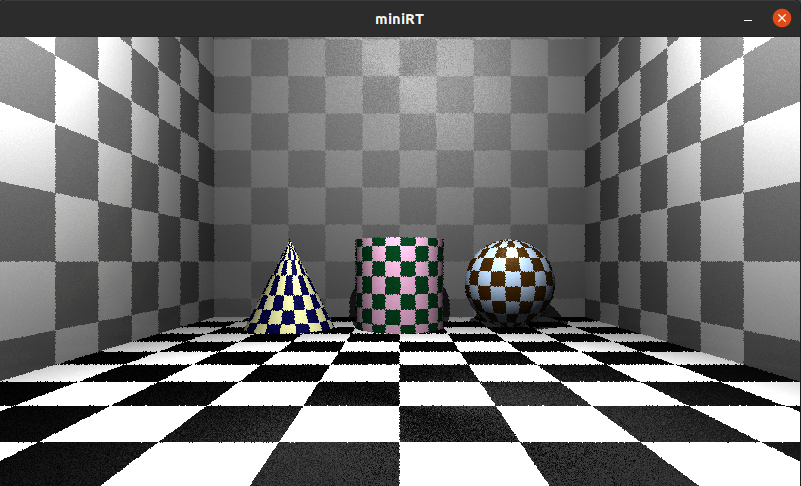
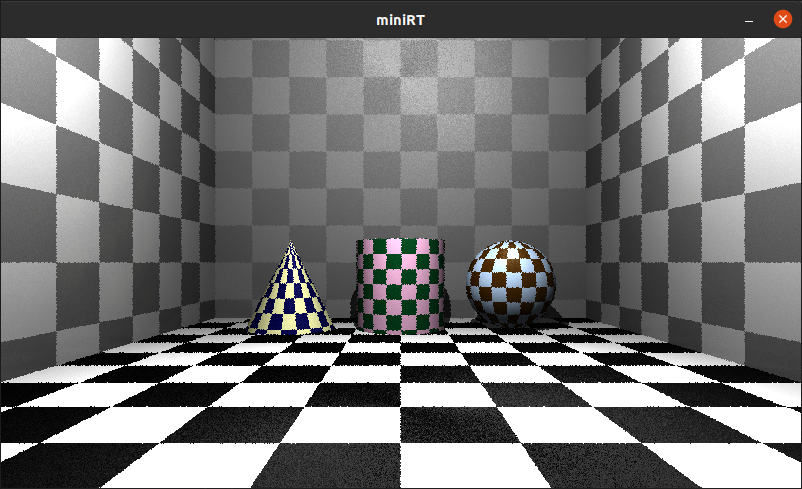
20221211_01:18

diff --git a/miniRT/srcs_bonus/raytracing_bonus/raytracing_cylinder_checkerboard_1_bonus.c b/miniRT/srcs_bonus/raytracing_bonus/raytracing_cylinder_checkerboard_1_bonus.c
@@ -6,7 +6,7 @@
 /*   By: yhwang <yhwang@student.42.fr>              +#+  +:+       +#+        */
 /*                                                +#+#+#+#+#+   +#+           */
 /*   Created: 2022/12/07 22:57:21 by yhwang            #+#    #+#             */
-/*   Updated: 2022/12/10 22:44:02 by yhwang           ###   ########.fr       */
+/*   Updated: 2022/12/11 01:17:09 by yhwang           ###   ########.fr       */
 /*                                                                            */
 /* ************************************************************************** */
 
@@ -14,16 +14,16 @@
 
 void	cylinder_checkerboard_xy(t_data *data, t_hit *hit, int cy_i)
 {
-	t_vec3	pc;
-	double	pc_length;
+	t_vec3	cp;
+	double	length_cp;
 	double	theta;
 	double	height;
 
-	pc = vec3_sub_vec3(data->obj[cy_i]->xyz_pos, hit->hit_point);
-	pc_length = sqrt(pc.x * pc.x + pc.y * pc.y + pc.z * pc.z);
 	theta = atan2(hit->normal_vec.y, hit->normal_vec.x) + PI / 2;
-	height = 10 + (sqrt(pc_length * pc_length - (data->obj[cy_i]->diameter / 2)
-				* ((data->obj[cy_i]->diameter) / 2)));
+	cp = vec3_sub_vec3(hit->hit_point, data->obj[cy_i]->xyz_pos);
+	length_cp = vec3_dot_vec3(cp, data->obj[cy_i]->xyz_vec);
+	height = PI + (length_cp / data->obj[cy_i]->height) * 2
+		* (data->obj[cy_i]->height / (data->obj[cy_i]->diameter));
 	if (!(hit->normal_vec.x == data->obj[cy_i]->xyz_vec.x
 			&& hit->normal_vec.y == data->obj[cy_i]->xyz_vec.y
 			&& hit->normal_vec.z == data->obj[cy_i]->xyz_vec.z)
@@ -42,16 +42,16 @@ void	cylinder_checkerboard_xy(t_data *data, t_hit *hit, int cy_i)
 
 void	cylinder_checkerboard_zx(t_data *data, t_hit *hit, int cy_i)
 {
-	t_vec3	pc;
-	double	pc_length;
+	t_vec3	cp;
+	double	length_cp;
 	double	theta;
 	double	height;
 
-	pc = vec3_sub_vec3(data->obj[cy_i]->xyz_pos, hit->hit_point);
-	pc_length = sqrt(pc.x * pc.x + pc.y * pc.y + pc.z * pc.z);
 	theta = atan2(hit->normal_vec.x, hit->normal_vec.z) + PI / 2;
-	height = 10 + (sqrt(pc_length * pc_length - (data->obj[cy_i]->diameter / 2)
-				* ((data->obj[cy_i]->diameter) / 2)));
+	cp = vec3_sub_vec3(hit->hit_point, data->obj[cy_i]->xyz_pos);
+	length_cp = vec3_dot_vec3(cp, data->obj[cy_i]->xyz_vec);
+	height = PI + (length_cp / data->obj[cy_i]->height) * 2
+		* (data->obj[cy_i]->height / (data->obj[cy_i]->diameter));
 	if (!(hit->normal_vec.x == data->obj[cy_i]->xyz_vec.x
 			&& hit->normal_vec.y == data->obj[cy_i]->xyz_vec.y
 			&& hit->normal_vec.z == data->obj[cy_i]->xyz_vec.z)
@@ -70,16 +70,16 @@ void	cylinder_checkerboard_zx(t_data *data, t_hit *hit, int cy_i)
 
 void	cylinder_checkerboard_zy(t_data *data, t_hit *hit, int cy_i)
 {
-	t_vec3	pc;
-	double	pc_length;
+	t_vec3	cp;
+	double	length_cp;
 	double	theta;
 	double	height;
 
-	pc = vec3_sub_vec3(data->obj[cy_i]->xyz_pos, hit->hit_point);
-	pc_length = sqrt(pc.x * pc.x + pc.y * pc.y + pc.z * pc.z);
 	theta = atan2(hit->normal_vec.y, hit->normal_vec.z) + PI / 2;
-	height = 10 + (sqrt(pc_length * pc_length - (data->obj[cy_i]->diameter / 2)
-				* ((data->obj[cy_i]->diameter) / 2)));
+	cp = vec3_sub_vec3(hit->hit_point, data->obj[cy_i]->xyz_pos);
+	length_cp = vec3_dot_vec3(cp, data->obj[cy_i]->xyz_vec);
+	height = PI + (length_cp / data->obj[cy_i]->height) * 2
+		* (data->obj[cy_i]->height / (data->obj[cy_i]->diameter));
 	if (!(hit->normal_vec.x == data->obj[cy_i]->xyz_vec.x
 			&& hit->normal_vec.y == data->obj[cy_i]->xyz_vec.y
 			&& hit->normal_vec.z == data->obj[cy_i]->xyz_vec.z)

diff --git a/miniRT/srcs_bonus/raytracing_bonus/raytracing_cone_checkerboard_2_bonus.c b/miniRT/srcs_bonus/raytracing_bonus/raytracing_cone_checkerboard_2_bonus.c
@@ -6,17 +6,20 @@
 /*   By: yhwang <yhwang@student.42.fr>              +#+  +:+       +#+        */
 /*                                                +#+#+#+#+#+   +#+           */
 /*   Created: 2022/12/10 22:12:53 by yhwang            #+#    #+#             */
-/*   Updated: 2022/12/10 22:59:14 by yhwang           ###   ########.fr       */
+/*   Updated: 2022/12/11 01:16:46 by yhwang           ###   ########.fr       */
 /*                                                                            */
 /* ************************************************************************** */
 
 #include "../incs_bonus/miniRT_bonus.h"
 
-void	cone_find_k(t_data *data, t_hit *hit, int co_i, double *k)
+void	cone_checkerboard_xy_zx_zy_norminette(t_data *data,
+				t_hit *hit, int co_i, double *height)
 {
 	double	delta;
 	t_vec3	top_center;
-	double	tan_theta;
+	double	cos_theta;
+	t_vec3	pq;
+	double	length_pq;
 
 	delta = data->obj[co_i]->height / 2
 		* sqrt(1 / (data->obj[co_i]->xyz_vec.x * data->obj[co_i]->xyz_vec.x
@@ -26,29 +29,14 @@ void	cone_find_k(t_data *data, t_hit *hit, int co_i, double *k)
 		= vec3(data->obj[co_i]->xyz_pos.x + delta * data->obj[co_i]->xyz_vec.x,
 			data->obj[co_i]->xyz_pos.y + delta * data->obj[co_i]->xyz_vec.y,
 			data->obj[co_i]->xyz_pos.z + delta * data->obj[co_i]->xyz_vec.z);
-	tan_theta = (data->obj[co_i]->diameter / 2) / data->obj[co_i]->height;
-	*k = sqrt((hit->hit_point.x - top_center.x)
-			* (hit->hit_point.x - top_center.x)
-			+ (hit->hit_point.y - top_center.y)
-			* (hit->hit_point.y - top_center.y)
-			+ (hit->hit_point.z - top_center.z)
-			* (hit->hit_point.z - top_center.z))
-		* tan_theta;
-}
-
-void	cone_checkerboard_xy_zx_zy_norminette(t_data *data,
-				t_hit *hit, int co_i, double *height)
-{
-	t_vec3	pc;
-	double	pc_length;
-	double	k;
-
-	cone_find_k(data, hit, co_i, &k);
-	pc = vec3_sub_vec3(data->obj[co_i]->xyz_pos, hit->hit_point);
-	pc_length = sqrt(pc.x * pc.x + pc.y * pc.y + pc.z * pc.z);
-	*height = 1.5 + sqrt(pc_length * pc_length + k * k);
-	if (data->obj[co_i]->diameter >= data->obj[co_i]->height)
-		*height = sqrt(pc_length * pc_length + k * k);
+	cos_theta = data->obj[co_i]->height
+		/ sqrt(data->obj[co_i]->height * data->obj[co_i]->height
+			+ (data->obj[co_i]->diameter / 2)
+			* (data->obj[co_i]->diameter / 2));
+	pq = vec3_sub_vec3(hit->hit_point, top_center);
+	length_pq = sqrt(pq.x * pq.x + pq.y * pq.y + pq.z * pq.z);
+	*height = (length_pq * cos_theta / data->obj[co_i]->height) * 2
+		* (data->obj[co_i]->height / (data->obj[co_i]->diameter));
 }
 
 void	cone_checkerboard_xy(t_data *data, t_hit *hit, int co_i)

diff --git a/miniRT/incs_bonus/miniRT_raytracing_bonus.h b/miniRT/incs_bonus/miniRT_raytracing_bonus.h
@@ -6,7 +6,7 @@
 /*   By: yhwang <yhwang@student.42.fr>              +#+  +:+       +#+        */
 /*                                                +#+#+#+#+#+   +#+           */
 /*   Created: 2022/11/30 22:06:51 by yhwang            #+#    #+#             */
-/*   Updated: 2022/12/10 22:58:53 by yhwang           ###   ########.fr       */
+/*   Updated: 2022/12/11 00:56:10 by yhwang           ###   ########.fr       */
 /*                                                                            */
 /* ************************************************************************** */
 
@@ -163,7 +163,6 @@ void	cone_checkerboard_norminette(t_data *data, t_hit *hit, int co_i);
 void	cone_checkerboard(t_data *data, t_hit *hit, int co_i);
 
 /* raytracing_cone_checkerboard_2_bonus */
-void	cone_find_k(t_data *data, t_hit *hit, int co_i, double *k);
 void	cone_checkerboard_xy_zx_zy_norminette(t_data *data,
 			t_hit *hit, int co_i, double *height);
 void	cone_checkerboard_xy(t_data *data, t_hit *hit, int co_i);
